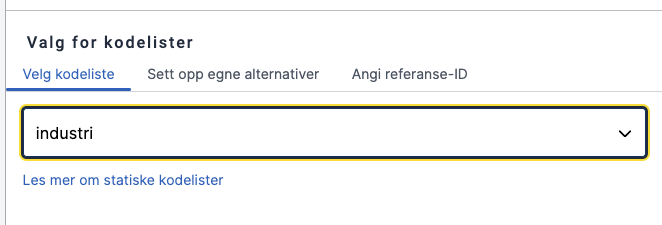
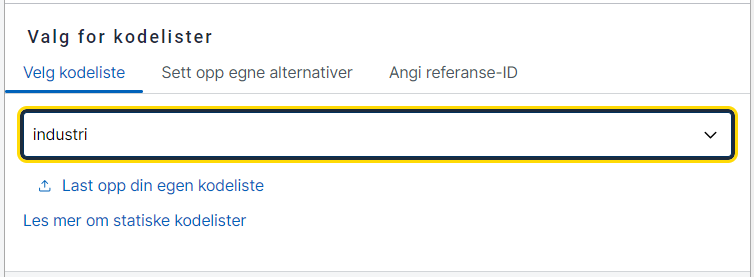
Update picture and text in module 6 to include new upload button for code lists.

Changed region(s): [[0.0, 0.0, 1.0, 1.0]]

diff --git a/content/altinn-studio/getting-started/app-dev-course/modul6/_index.nb.md b/content/altinn-studio/getting-started/app-dev-course/modul6/_index.nb.md
@@ -82,30 +82,14 @@ Slik bruker du en kodeliste til å lage en liste med avmerkingsbokser:
    !["Skjemabygger med bransje"](skjemabygger_med_bransje.png)
 3. Gå til "Datamodellknytninger", velg "Avmerkingsbokser" og koble komponenten til feltet `arbeidsforhold.bransje`.
 
-#### Del endringene
-1. Klikk på "Last opp dine endringer" for å dele arbeidet du har gjort. Den røde prikken viser at du har gjort endringer som ikke er delt.
-   !["Last opp dine endringer"-knapp](last_opp_dine_endringer.png)
-2. Skriv en kort tekst om hva du har oppdatert. Hvis det er flere som jobber på samme app, blir det lettere for dem å vite hva du har jobbet med. Dette er frivillig.
-3. Velg "Del endringer" for å lagre teksten og laste opp endringene dine. Etter en liten stund skal du få en beskjed om at appen er oppdatert, og den røde prikken skal forsvinne.
-
-#### Åpne repositoriet og lagre kodelisten
-1. Klikk på profilikonet øverst til høyre i Studio og velg "Åpne repositoriet".
-2. Det åpnes en ny fane med en oversikt med mapper og filer. Denne oversikten kalles Gitea. Her ligger de filene Altinn Studio har generert ut fra innstillinger du har satt for appen du lager.
-   I Gitea kan du redigere filene manuelt og holde oversikt over versjoner ved hjelp av [Git](https://git-scm.com/). Hvis du ikke kjenner til Git fra før, kan det være lurt å sette deg litt inn i det, for å forstå hva som skjer i bakgrunnen når du gjør endringer.
-3. Last ned [kodelisten](industri.json).
-4. Klikk på "Add File", deretter "Last opp fil" og last opp kodelisten.
-5. Filen må ligge i mappen `App/options`. Sørg for at den blir plassert der ved å oppgi denne stien i feltet over opplastingsfeltet. Når du skriver "App/", blir feltet automatisk oppdatert til å se slik ut:
-   ![Filsti](filsti.png)
-6. Velg "Commit endringer".
-7. Du er nå ferdig i Gitea for denne gang. Gå tilbake til Altinn Studio-fanen, eller klikk på Altinn-logoen øverst til venstre i Gitea for å komme tilbake til Altinn Studio.
-
-#### Koble kodelisten til komponenten
-1. I Altinn Studio ser du nå en rød prikk ved knappen "Hent endringer". Det betyr at det er gjort endringer i filsystemet (mappen du har lagt til i Gitea), som du må synkronisere med Studio.
-   !["Hent endringer"-knapp](hent_endringer.png)
-   Klikk på knappen. Du vil få en bekreftelse på at du har fått siste versjon og prikken forsvinner.
+#### Laste opp og koble til kodelisten til komponenten
+1. Last ned [kodelisten](industri.json).
 2. Åpne siden der du la til "Bransje" og klikk på "Bransje".
 3. Under "Tekst" i egenskapene for "Bransje", sjekk at fanen "Velg kodeliste" er valgt.
-4. Velg "industri" fra nedtrekkslisten under.
+4. Trykk på knappen med teksten "Last opp din egen kodeliste".
+5. Finn frem til filen du nettopp lastet ned, den har navnet "industri.json".
+6. Velg filen, og trykk på "Åpne".
+7. Velg "industri" fra nedtrekkslisten som vist under.
    !["Bruk kodeliste"-nedtrekssliste](bruk_kodeliste.png)
 
 Nå skal avmerkingsboksene være klare.
